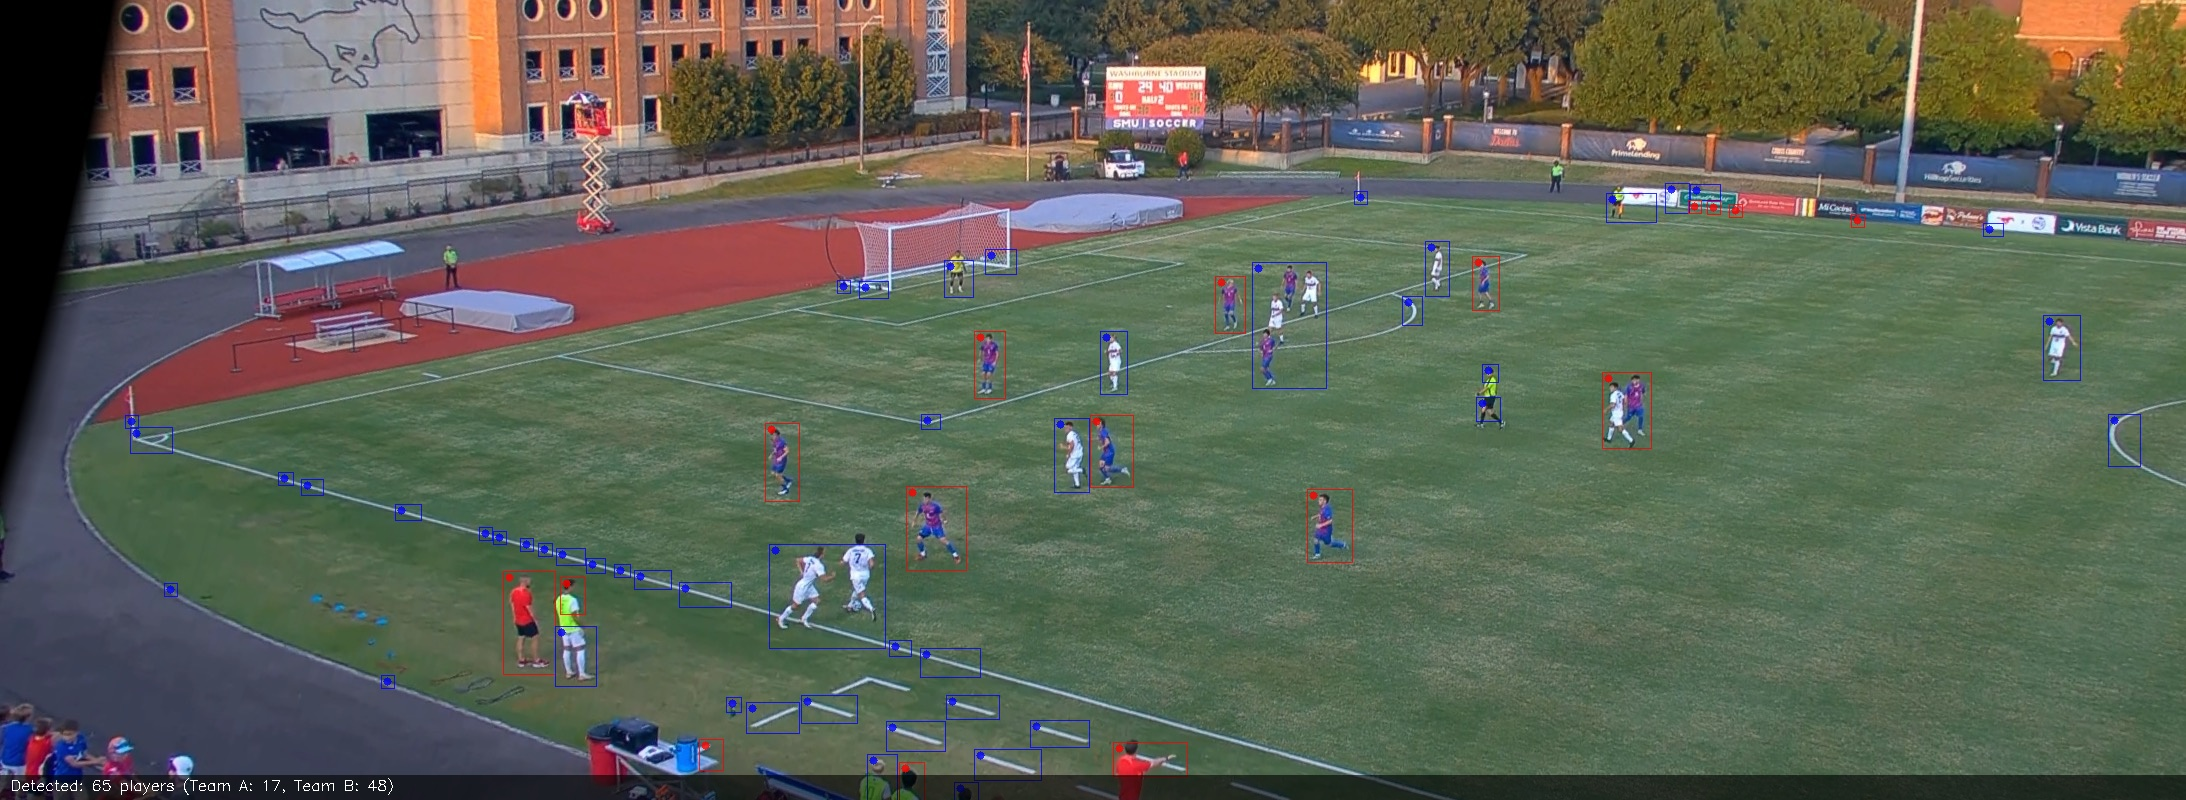
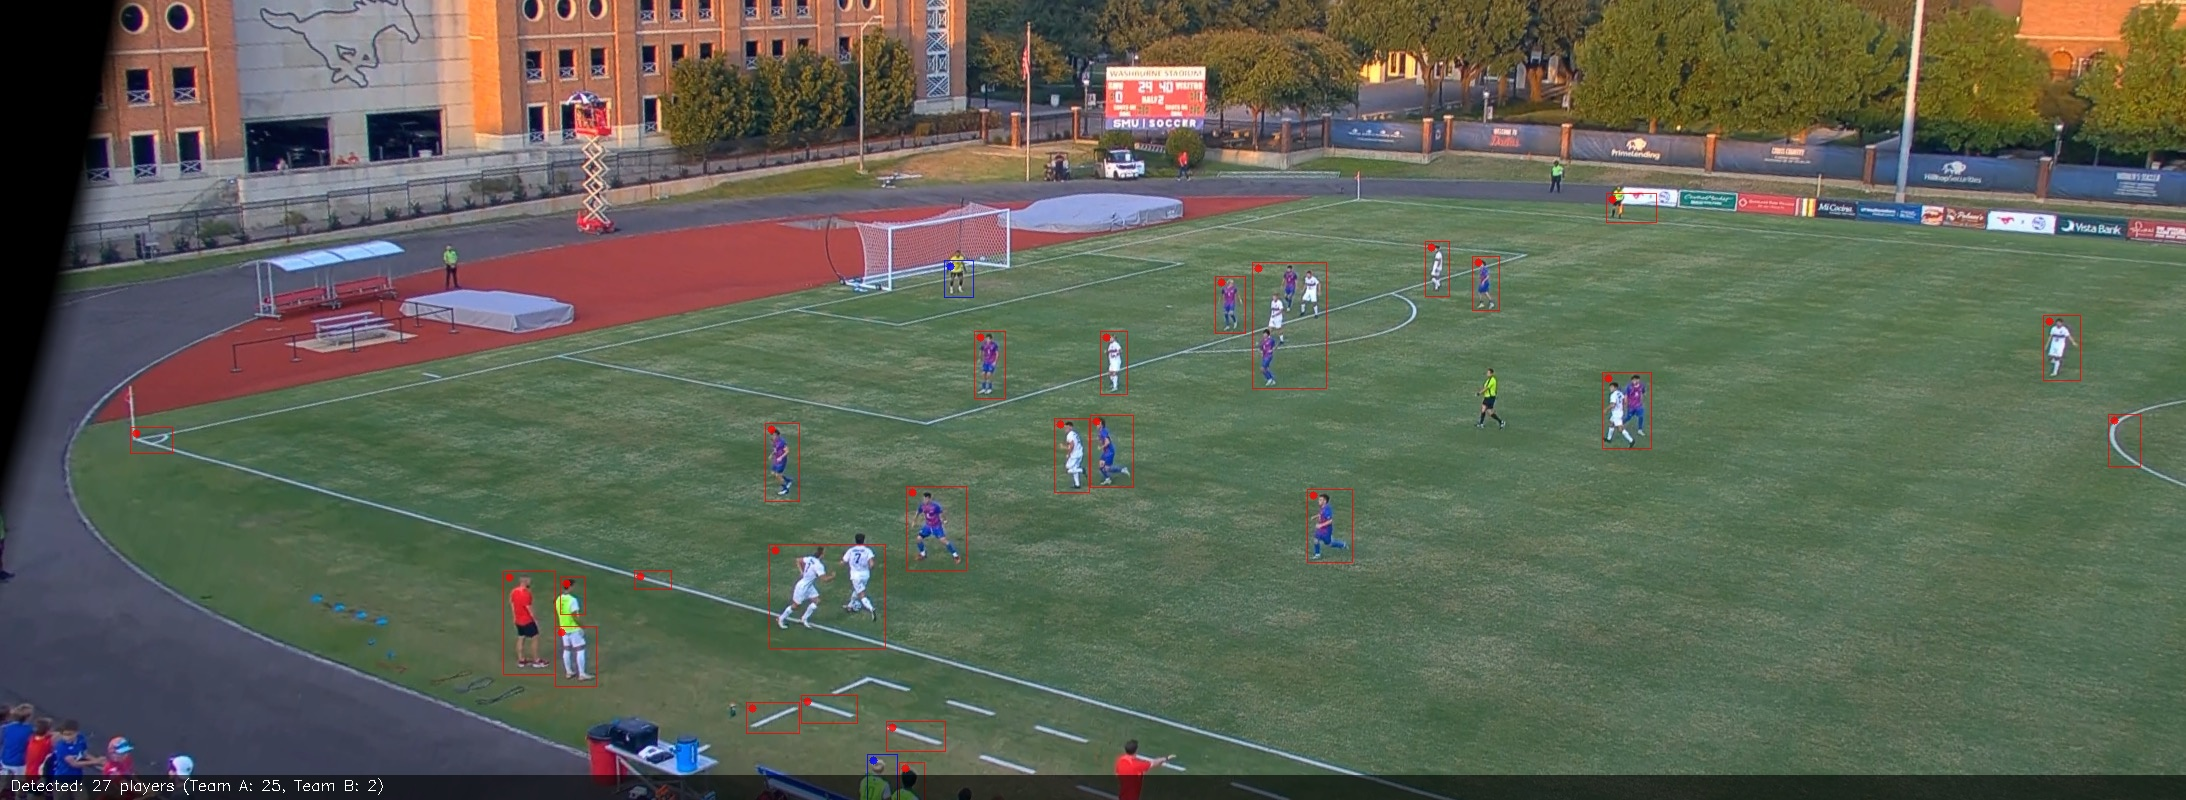
Add new images and enhance player detection algorithm
- Added multiple new image files for visualization and analysis, including various player and result images.
- Enhanced player detection logic in player_detection.py by implementing adaptive size thresholds based on contour analysis.
- Adjusted filtering criteria for player boxes to improve detection accuracy, including stricter aspect ratio checks and increased overlap thresholds for non-maximum suppression.

diff --git a/utils/player_detection.py b/utils/player_detection.py
@@ -106,34 +106,58 @@ def detect_players_with_canny_and_contours(image, threshold=0.3):
     
     # 10. Filter contours by size and aspect ratio to identify players
     player_boxes = []
+    
+    # Find the maximum area of all contours to set a relative size threshold
+    max_area = 0
+    max_dimension = 0
+    for contour in contours:
+        area = cv2.contourArea(contour)
+        if area > max_area:
+            max_area = area
+        x, y, w, h = cv2.boundingRect(contour)
+        max_dim = max(w, h)
+        if max_dim > max_dimension:
+            max_dimension = max_dim
+    
+    # Set a minimum area threshold relative to the maximum area
+    # This helps adapt to different image scales
+    min_area_threshold = max(150, max_area * 0.05)  # At least 5% of the max area or 150px
+    min_dimension_threshold = max(10, max_dimension * 0.15)  # At least 15% of the max dimension or 10px
+    
     for contour in contours:
         area = cv2.contourArea(contour)
         
-        # Filter by size - adjusted thresholds for soccer field aerial view
-        if 50 < area < 5000:  # Lowered minimum area and increased maximum
+        # Filter by size - using more aggressive minimum thresholds
+        if area > min_area_threshold and area < 8000:  # Increased minimum area and maximum
             x, y, w, h = cv2.boundingRect(contour)
             
-            # Check aspect ratio - made more lenient to catch more players
+            # Check if either width or height is large enough
+            larger_dimension = max(w, h)
+            if larger_dimension < min_dimension_threshold:
+                continue
+                
+            # Check aspect ratio - prefer more square-like shapes for players seen from above
             aspect_ratio = float(h) / w if w > 0 else 0
-            if 0.4 <= aspect_ratio <= 4.0 and w > 3 and h > 8:  # More permissive criteria
+            if 0.5 <= aspect_ratio <= 3.0 and w > 5 and h > 5:  # Stricter aspect ratio criteria
                 # Check if the bounding box is mostly inside the field mask
                 box_mask = np.zeros_like(field_mask)
                 cv2.rectangle(box_mask, (x, y), (x + w, y + h), 255, -1)
                 overlap = cv2.bitwise_and(box_mask, field_mask)
                 overlap_area = cv2.countNonZero(overlap)
                 
-                # Only keep the box if at least 50% is inside the field (reduced threshold)
-                if overlap_area > 0.5 * (w * h):
+                # Only keep the box if at least 60% is inside the field (increased threshold)
+                if overlap_area > 0.6 * (w * h):
                     player_boxes.append((x, y, w, h))
     
-    # 11. Apply non-maximum suppression with a lower overlap threshold to keep more players
-    final_boxes = non_maximum_suppression(player_boxes, 0.2)  # Decreased overlap threshold
+    # 11. Apply non-maximum suppression with a higher overlap threshold to remove redundant boxes
+    final_boxes = non_maximum_suppression(player_boxes, 0.3)  # Increased overlap threshold
     
     return final_boxes
 
 def non_maximum_suppression(boxes, overlap_threshold):
     """
     Apply non-maximum suppression to remove overlapping boxes.
+    Prioritizes boxes with larger maximum dimension (width or height).
     
     Args:
         boxes (list): List of bounding boxes in the format [(x, y, w, h), ...].
@@ -154,15 +178,22 @@ def non_maximum_suppression(boxes, overlap_threshold):
     w = boxes_array[:, 2]
     h = boxes_array[:, 3]
     
-    # Compute area of each box
+    # Get the larger dimension (width or height) for each box
+    max_dimension = np.maximum(w, h)
+    
+    # Also compute area as a secondary sorting metric
     area = w * h
     
-    # Sort by area (larger boxes often contain players completely)
-    indices = np.argsort(area)[::-1]
+    # Create a combined score that prioritizes larger dimension but also considers area
+    # This gives preference to boxes with at least one large dimension
+    score = max_dimension * 2 + np.sqrt(area)
+    
+    # Sort by score (boxes with larger dimension first)
+    indices = np.argsort(score)[::-1]
     
     keep = []
     while len(indices) > 0:
-        # Pick the largest box
+        # Pick the box with the largest score
         i = indices[0]
         keep.append(i)
         
